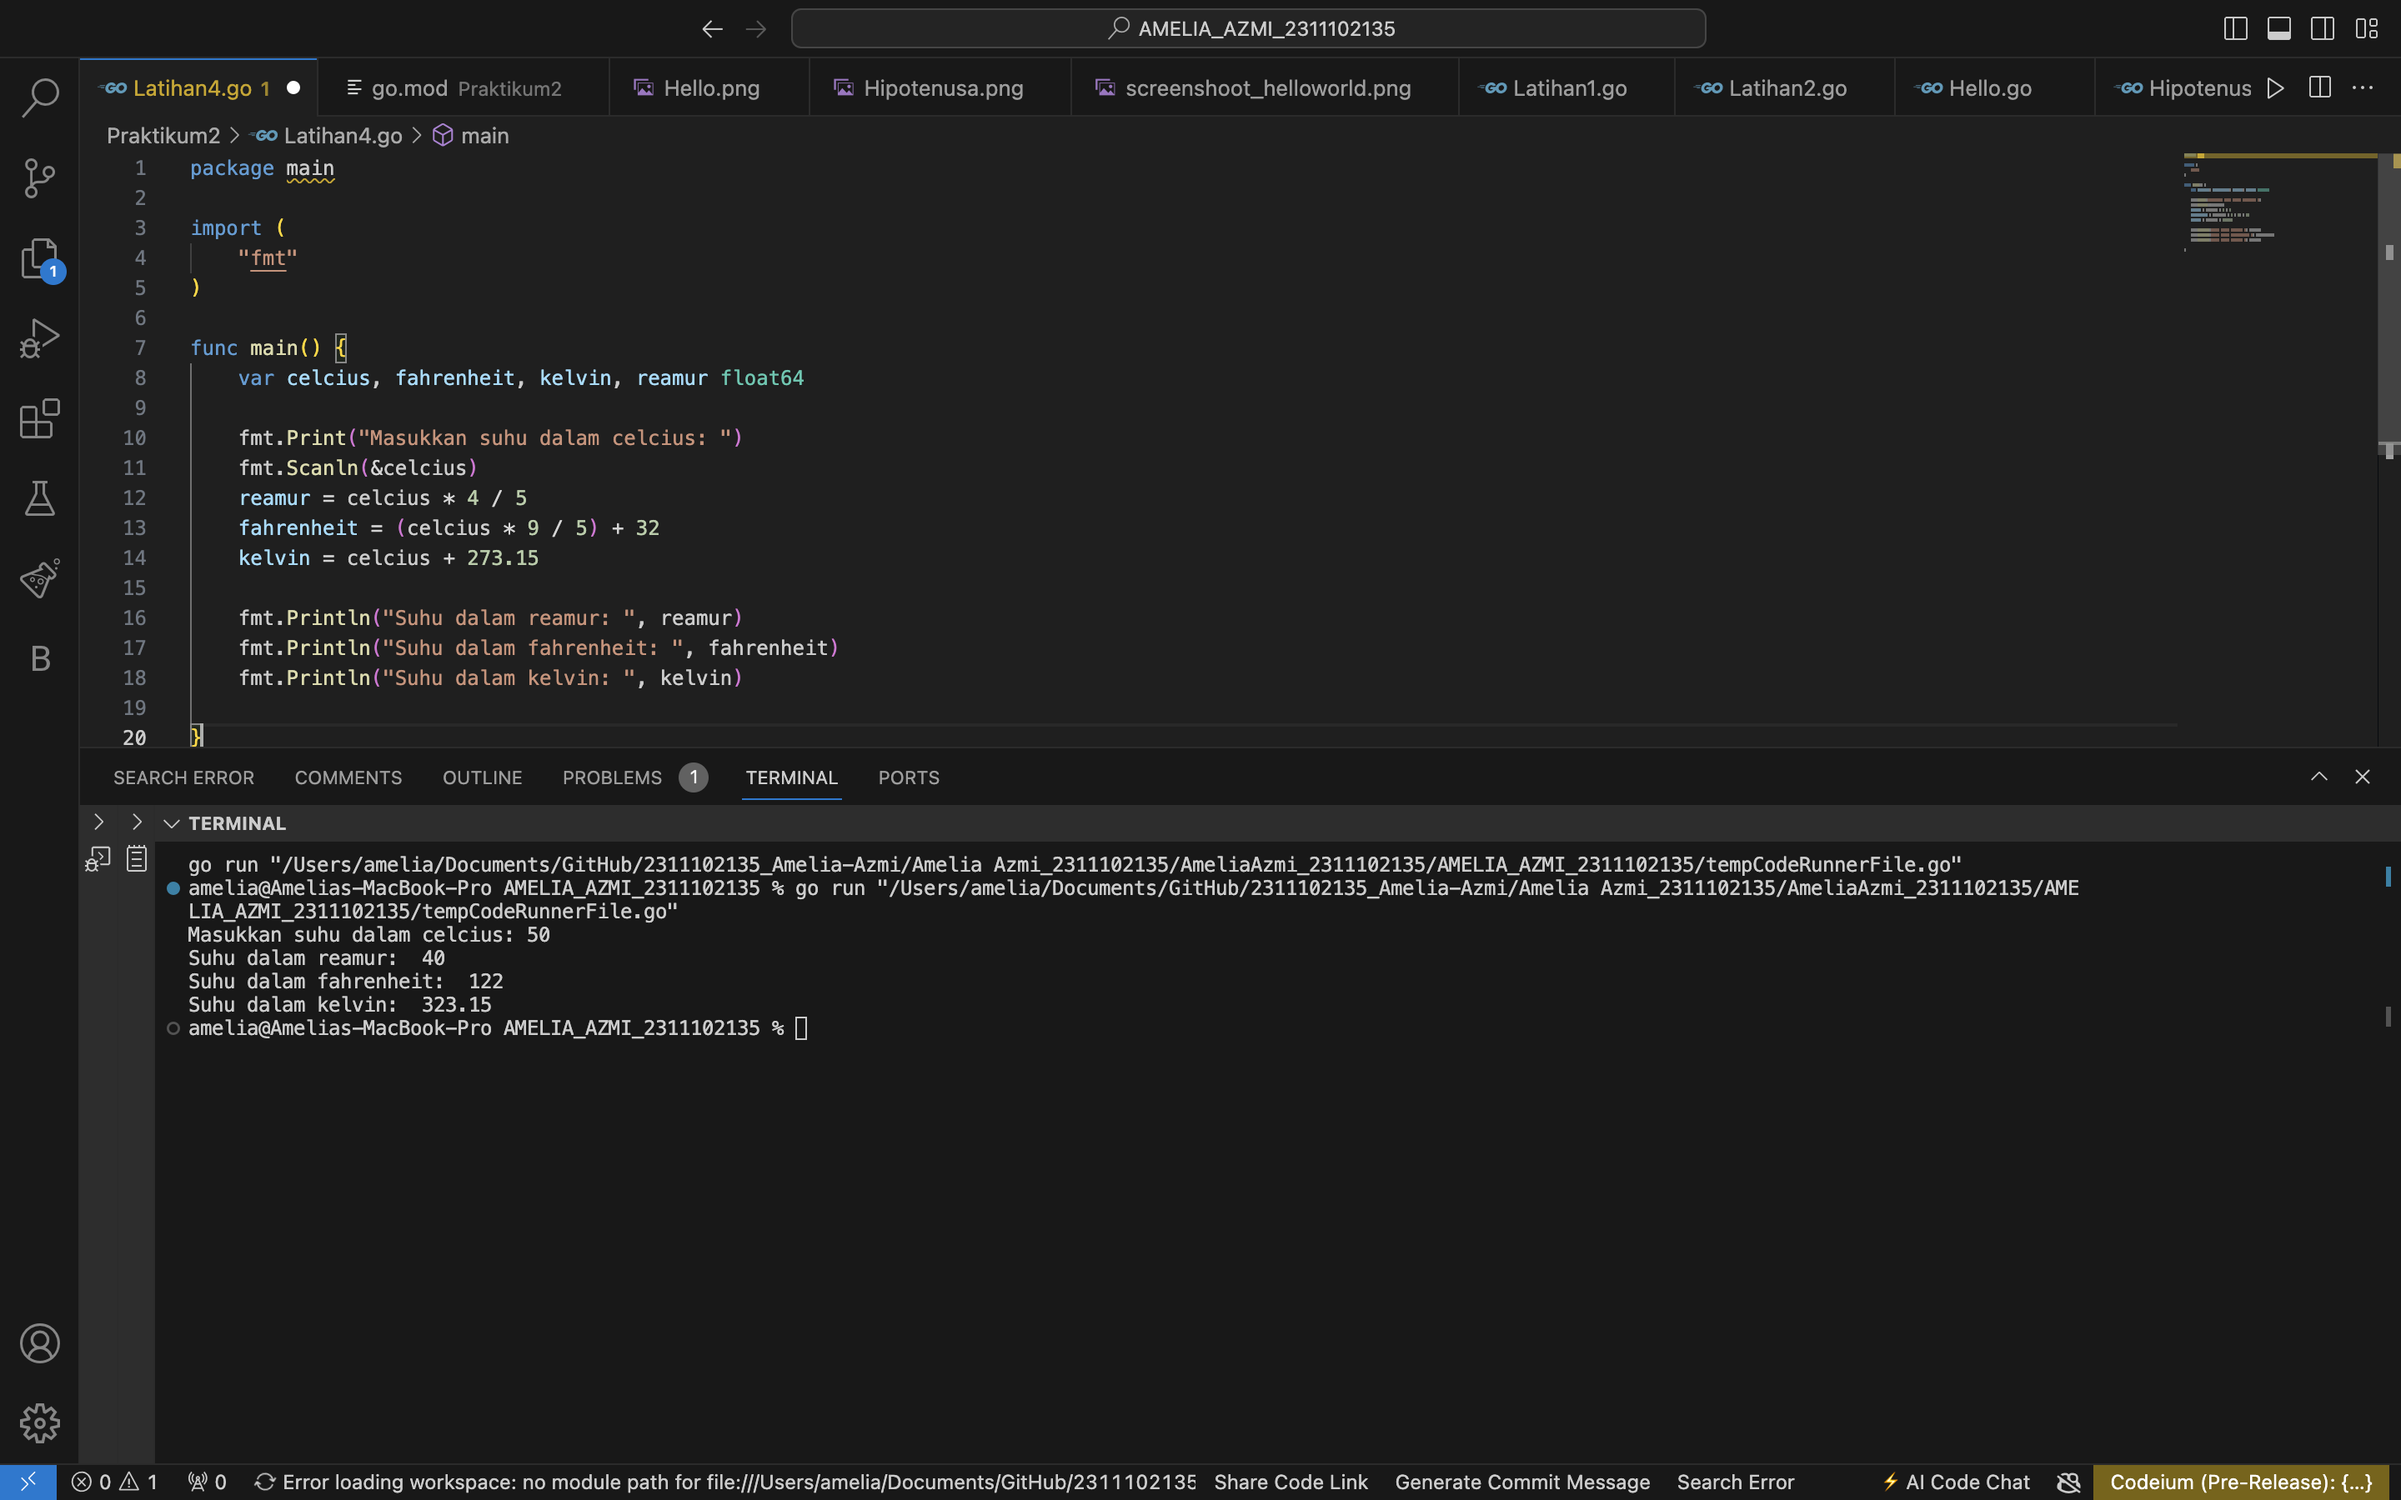
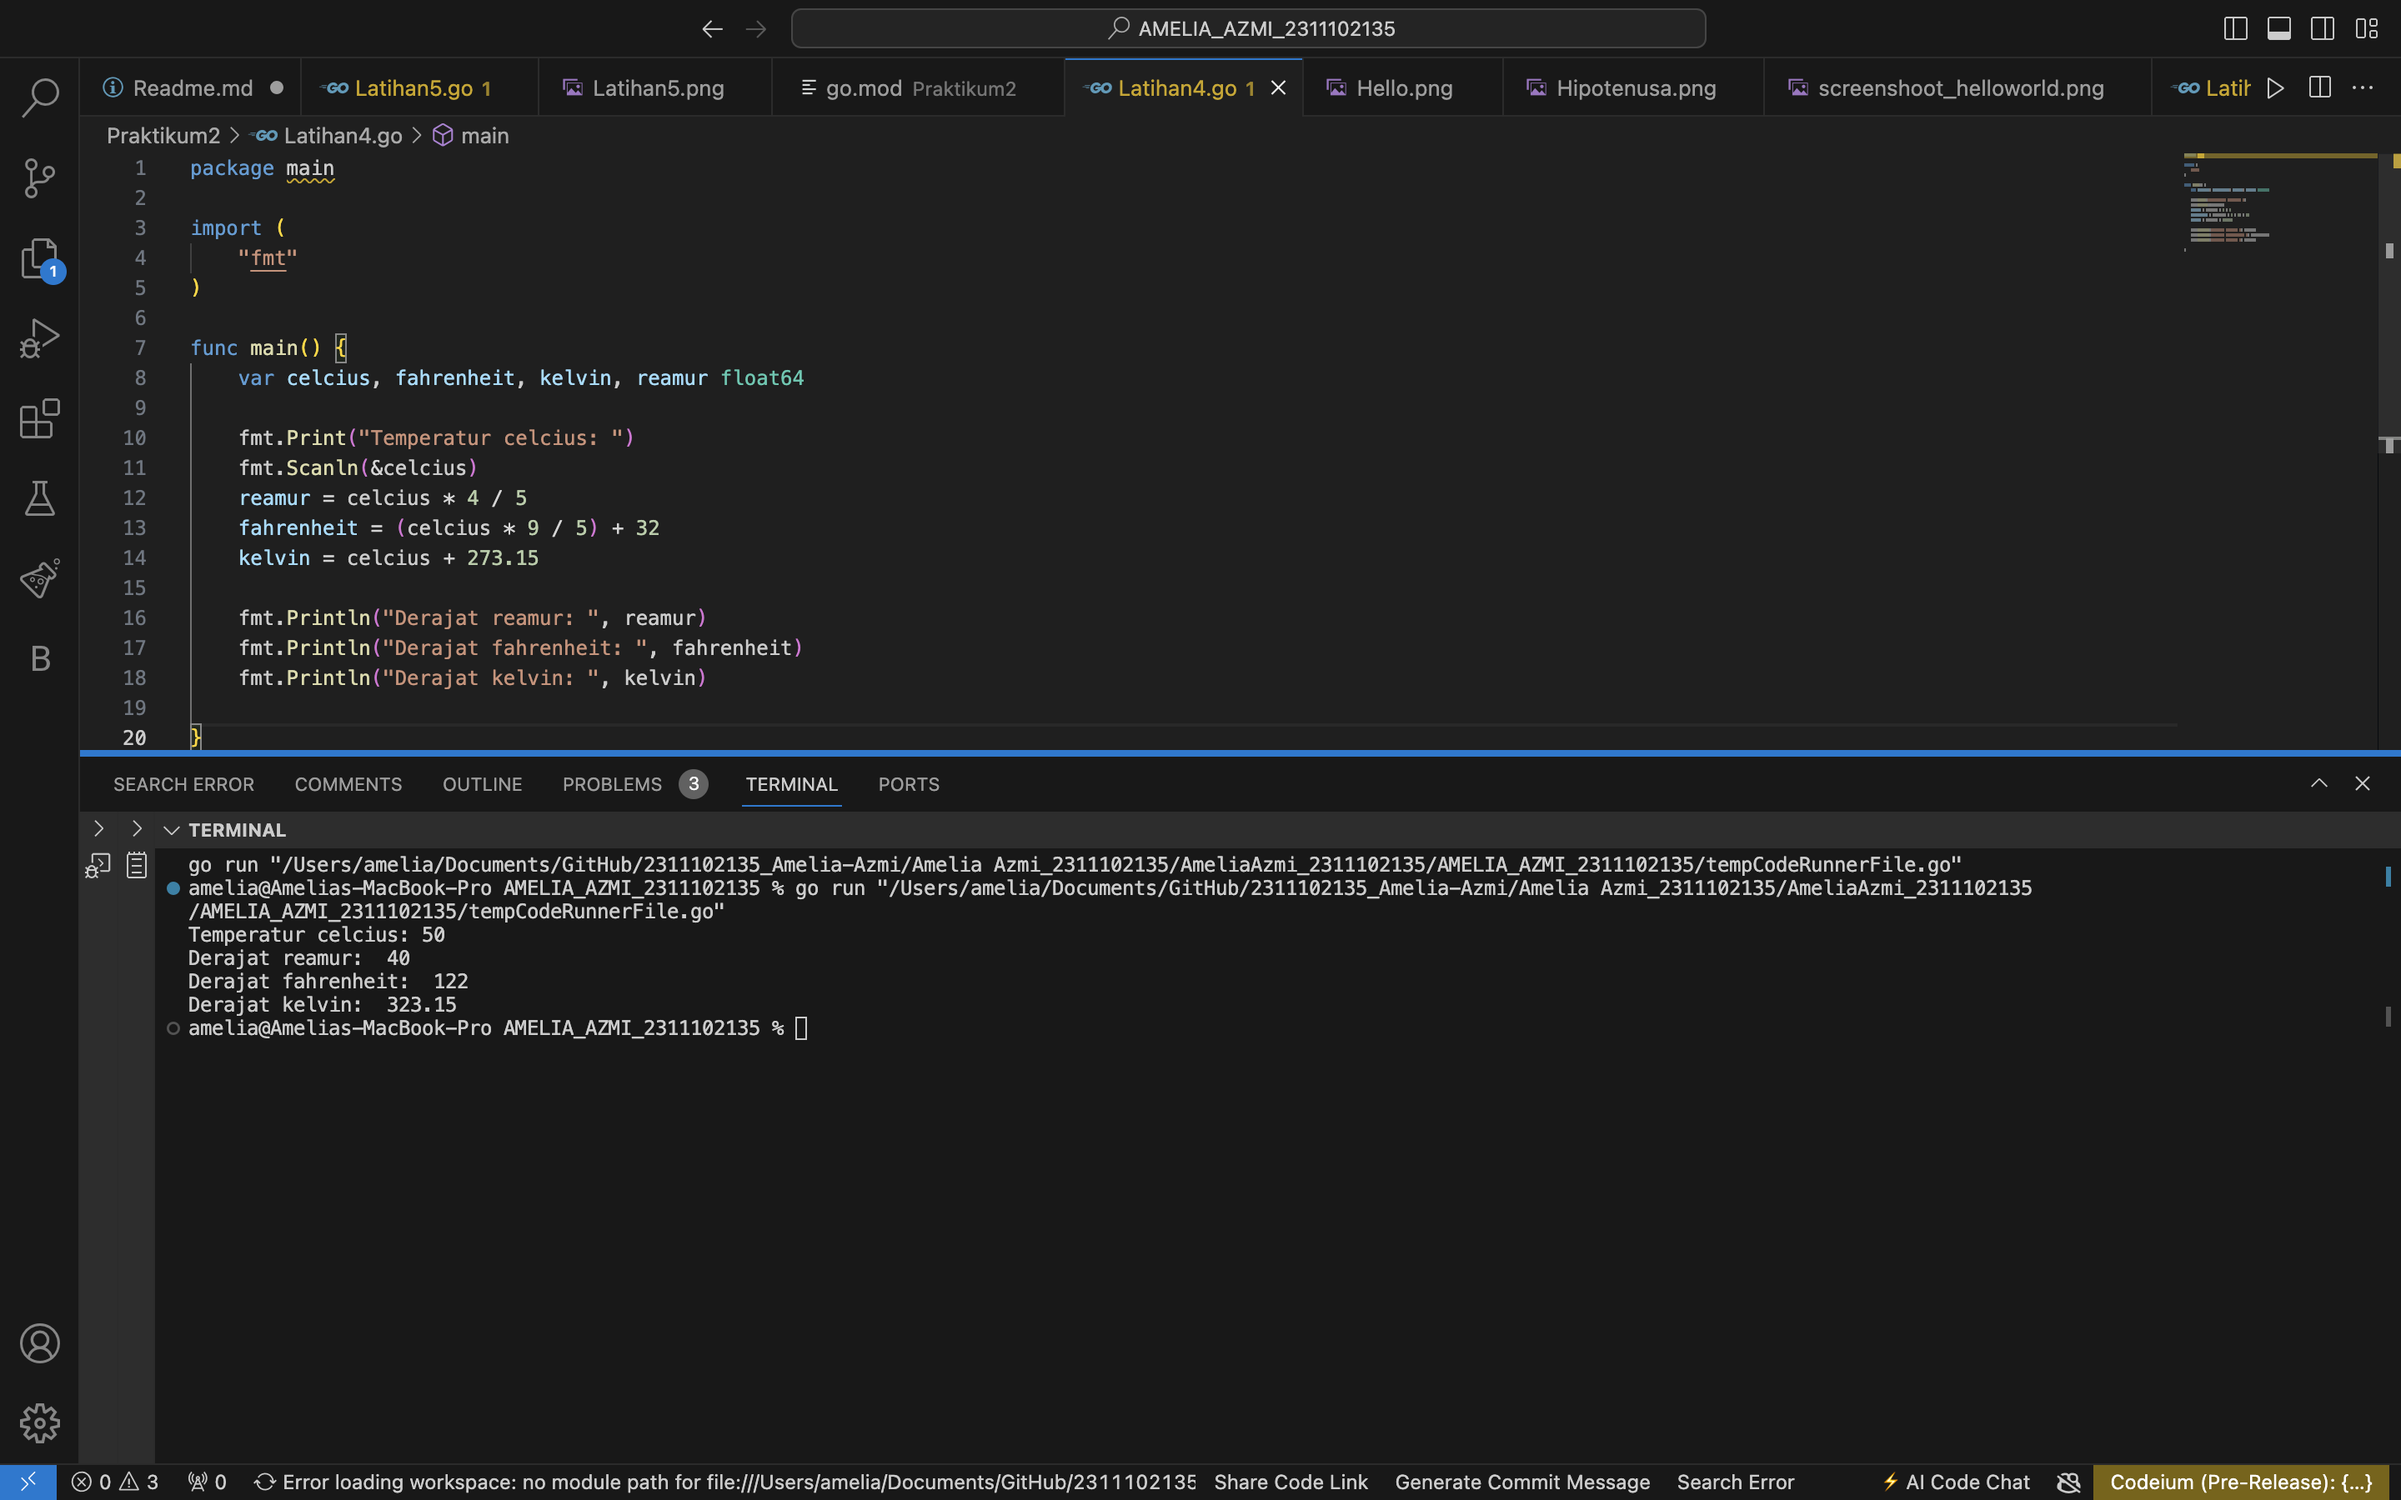
praktikum2

diff --git a/Praktikum2/Latihan4.go b/Praktikum2/Latihan4.go
@@ -7,14 +7,14 @@ import (
 func main() {
 	var celcius, fahrenheit, kelvin, reamur float64
 
-	fmt.Print("Masukkan suhu dalam celcius: ")
+	fmt.Print("Temperatur celcius: ")
 	fmt.Scanln(&celcius)
 	reamur = celcius * 4 / 5
 	fahrenheit = (celcius * 9 / 5) + 32
 	kelvin = celcius + 273.15
 
-	fmt.Println("Suhu dalam reamur: ", reamur)
-	fmt.Println("Suhu dalam fahrenheit: ", fahrenheit)
-	fmt.Println("Suhu dalam kelvin: ", kelvin)
+	fmt.Println("Derajat reamur: ", reamur)
+	fmt.Println("Derajat fahrenheit: ", fahrenheit)
+	fmt.Println("Derajat kelvin: ", kelvin)
 
 }

diff --git a/Praktikum2/Readme.md b/Praktikum2/Readme.md
@@ -166,15 +166,15 @@ import (
 func main() {
 	var celcius, fahrenheit, kelvin, reamur float64
 
-	fmt.Print("Masukkan suhu dalam celcius: ")
+	fmt.Print("Temperatur celcius: ")
 	fmt.Scanln(&celcius)
 	reamur = celcius * 4 / 5
 	fahrenheit = (celcius * 9 / 5) + 32
 	kelvin = celcius + 273.15
 
-	fmt.Println("Suhu dalam reamur: ", reamur)
-	fmt.Println("Suhu dalam fahrenheit: ", fahrenheit)
-	fmt.Println("Suhu dalam kelvin: ", kelvin)
+	fmt.Println("Derajat reamur: ", reamur)
+	fmt.Println("Derajat fahrenheit: ", fahrenheit)
+	fmt.Println("Derajat kelvin: ", kelvin)
 
 }
 ```
